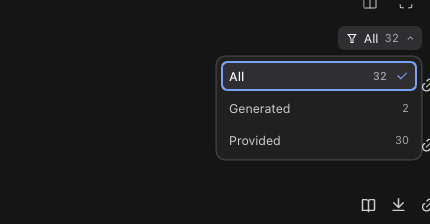
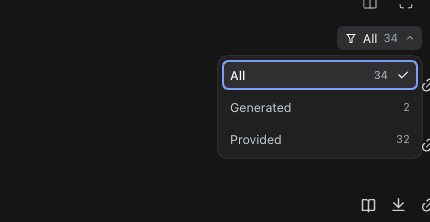
fix(artifacts): borderless filter menu, theme-coloured check and thin caret
Polish the custom artifacts filter dropdown: the menu loses its 1px border
(radius and panel shadow remain), the selected option's check now uses the theme
text colour (white in dark mode, near-black in light mode) instead of the business
blue, and the trigger caret is a thin stroked chevron matching the shell's native
dropdown caret instead of the filled arrow-down-s-line glyph; it still rotates
when the menu is open. Refresh the panel/menu captures.

diff --git a/src/client.js b/src/client.js
@@ -200,7 +200,7 @@ window.__ModuleLoader__.load({
 .dsa-filter-trigger-count{color:var(--dsw-alias-label-tertiary);font-size:11.5px;line-height:16px;font-variant-numeric:tabular-nums}
 .dsa-filter-caret{display:inline-flex;align-items:center;color:var(--dsw-alias-label-tertiary);transition:transform .16s ease}
 .dsa-filter-trigger[aria-expanded=true] .dsa-filter-caret{transform:rotate(180deg)}
-.dsa-filter-menu{position:absolute;z-index:40;top:calc(100% + 6px);right:0;min-width:196px;padding:4px;border-radius:12px;border:1px solid var(--dsw-alias-border-l2,transparent);background:var(--dsw-alias-bg-layer-1);box-shadow:var(--dsw-elevation-panel,0 10px 30px rgb(0 0 0 / 22%));display:flex;flex-direction:column;gap:2px;animation:dsa-menu-in .12s ease-out}
+.dsa-filter-menu{position:absolute;z-index:40;top:calc(100% + 6px);right:0;min-width:196px;padding:4px;border-radius:12px;border:0;background:var(--dsw-alias-bg-layer-1);box-shadow:var(--dsw-elevation-panel,0 10px 30px rgb(0 0 0 / 22%));display:flex;flex-direction:column;gap:2px;animation:dsa-menu-in .12s ease-out}
 @keyframes dsa-menu-in{from{opacity:0;transform:translateY(-4px)}to{opacity:1;transform:translateY(0)}}
 @media (prefers-reduced-motion: reduce){.dsa-filter-menu{animation:none}}
 .dsa-filter-option{appearance:none;display:flex;align-items:center;gap:8px;width:100%;box-sizing:border-box;padding:6px 8px;border:0;border-radius:8px;background:transparent;color:var(--dsw-alias-label-secondary);font:inherit;font-size:12.5px;line-height:18px;text-align:left;cursor:pointer}
@@ -209,7 +209,7 @@ window.__ModuleLoader__.load({
 .dsa-filter-option[aria-checked=true]{background:var(--dsw-alias-bg-layer-3,var(--dsw-alias-bg-layer-2));color:var(--dsw-alias-label-primary);font-weight:500}
 .dsa-filter-option-label{flex:1;min-width:0;overflow:hidden;text-overflow:ellipsis;white-space:nowrap}
 .dsa-filter-option-count{color:var(--dsw-alias-label-tertiary);font-size:11px;font-variant-numeric:tabular-nums}
-.dsa-filter-check{flex:none;display:inline-flex;align-items:center;color:var(--dsw-alias-state-business-primary)}
+.dsa-filter-check{flex:none;display:inline-flex;align-items:center;color:var(--dsw-alias-label-primary)}
 .dsa-list{list-style:none;margin:0;padding:0 8px 8px;overflow:auto;flex:1;min-height:0;display:flex;flex-direction:column;gap:2px}
 .dsa-row{display:flex;align-items:center;gap:10px;padding:8px 8px;border-radius:var(--dsw-radius-lg,10px);min-width:0}
 .dsa-row:hover{background:var(--dsw-alias-interactive-bg-hover)}
@@ -252,7 +252,26 @@ window.__ModuleLoader__.load({
     const REMIX_AI_GENERATE_3D_LINE = 'M15.1416 2.81836L13.1016 3.94824L12 3.31055L4.5 7.65234V7.6582L12 12V20.6895L19.5 16.3467V11.5L21.5 10.3291V17.5L12 23L2.5 17.5V6.5L12 1L15.1416 2.81836ZM18.5293 2.31934C18.7059 1.8935 19.2943 1.89349 19.4707 2.31934L19.7236 2.93066C20.1556 3.97346 20.9615 4.80618 21.9746 5.25684L22.6924 5.57617C23.1026 5.75901 23.1026 6.3562 22.6924 6.53906L21.9326 6.87695C20.9449 7.31624 20.1534 8.11944 19.7139 9.12793L19.4668 9.69336C19.2864 10.1075 18.7137 10.1075 18.5332 9.69336L18.2871 9.12793C17.8476 8.11929 17.0552 7.31628 16.0674 6.87695L15.3076 6.53906C14.8974 6.35622 14.8974 5.75899 15.3076 5.57617L16.0254 5.25684C17.0385 4.80618 17.8445 3.97348 18.2764 2.93066L18.5293 2.31934Z'
     const REMIX_REFRESH_LINE = 'M5.46257 4.43262C7.21556 2.91688 9.5007 2 12 2C17.5228 2 22 6.47715 22 12C22 14.1361 21.3302 16.1158 20.1892 17.7406L17 12H20C20 7.58172 16.4183 4 12 4C9.84982 4 7.89777 4.84827 6.46023 6.22842L5.46257 4.43262ZM18.5374 19.5674C16.7844 21.0831 14.4993 22 12 22C6.47715 22 2 17.5228 2 12C2 9.86386 2.66979 7.88416 3.8108 6.25944L7 12H4C4 16.4183 7.58172 20 12 20C14.1502 20 16.1022 19.1517 17.5398 17.7716L18.5374 19.5674Z'
     const REMIX_FILTER_LINE = 'M21 4V6H20L15 13.5V22H9V13.5L4 6H3V4H21ZM6.4037 6L11 12.8944V20H13V12.8944L17.5963 6H6.4037Z'
-    const REMIX_ARROW_DOWN_S_LINE = 'M12 13.1714L16.9497 8.22168L18.3639 9.63589L11.9999 15.9999L5.63599 9.63589L7.0502 8.22168L12 13.1714Z'
+    /**
+     * Thin stroked chevron used by the artifacts filter trigger, matching the
+     * shell's native dropdown caret rather than a filled arrow glyph.
+     * @param {number} size - rendered edge length in pixels.
+     * @returns {object} the SVG element.
+     */
+    function FilterCaretGlyph(size) {
+      return React.createElement('svg', {
+        viewBox: '0 0 24 24',
+        width: size ?? 12,
+        height: size ?? 12,
+        fill: 'none',
+        stroke: 'currentColor',
+        strokeWidth: 1.7,
+        strokeLinecap: 'round',
+        strokeLinejoin: 'round',
+        'aria-hidden': 'true',
+        focusable: 'false'
+      }, React.createElement('path', { d: 'M6 9.5 12 15.5 18 9.5' }))
+    }
     const REMIX_FILE_LINE = 'M9 2.00318V2H19.9978C20.5513 2 21 2.45531 21 2.9918V21.0082C21 21.556 20.5551 22 20.0066 22H3.9934C3.44476 22 3 21.5501 3 20.9932V8L9 2.00318ZM5.82918 8H9V4.83086L5.82918 8ZM11 4V9C11 9.55228 10.5523 10 10 10H5V20H19V4H11Z'
     const REMIX_BOOK_OPEN_LINE = 'M13 21V23H11V21H3C2.44772 21 2 20.5523 2 20V4C2 3.44772 2.44772 3 3 3H9C10.1947 3 11.2671 3.52375 12 4.35418C12.7329 3.52375 13.8053 3 15 3H21C21.5523 3 22 3.44772 22 4V20C22 20.5523 21.5523 21 21 21H13ZM20 19V5H15C13.8954 5 13 5.89543 13 7V19H20ZM11 19V7C11 5.89543 10.1046 5 9 5H4V19H11Z'
     const REMIX_DOWNLOAD_LINE = 'M3 19H21V21H3V19ZM13 13.1716L19.0711 7.1005L20.4853 8.51472L12 17L3.51472 8.51472L4.92893 7.1005L11 13.1716V2H13V13.1716Z'
@@ -2280,7 +2299,7 @@ window.__ModuleLoader__.load({
           RemixGlyph(REMIX_FILTER_LINE, 12),
           React.createElement('span', { className: 'dsa-filter-trigger-label' }, t(`filter.${filter}`)),
           React.createElement('span', { className: 'dsa-filter-trigger-count' }, filterCounts[filter]),
-          React.createElement('span', { className: 'dsa-filter-caret' }, RemixGlyph(REMIX_ARROW_DOWN_S_LINE, 11))),
+          React.createElement('span', { className: 'dsa-filter-caret' }, FilterCaretGlyph(12))),
           filterMenu)
         : null
 
